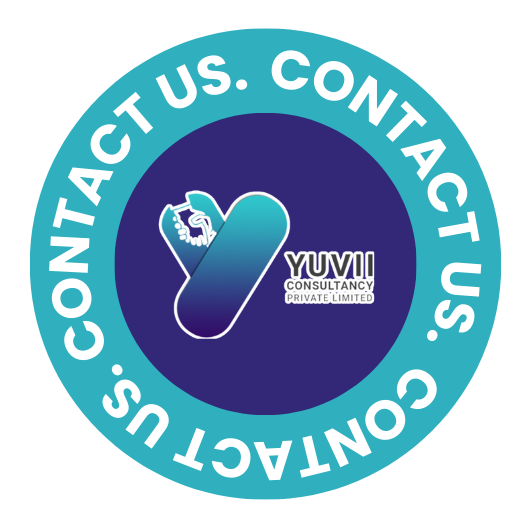
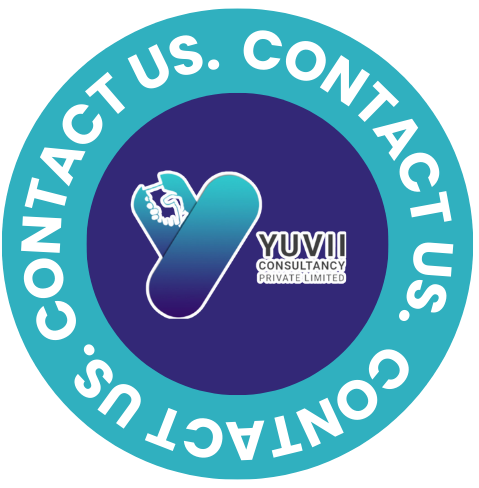
fix: contact-us.png changed

diff --git a/about.html b/about.html
@@ -1217,7 +1217,7 @@
               </div>
               <div class="commitment-contact-circle">
                 <a href="contact.html">
-                  <img src="contact-us.png" alt="" />
+                  <img src="yuvii consultancy (5).png" alt="" />
                 </a>
               </div>
             </div>
@@ -1327,10 +1327,7 @@
 
               <!-- Testimonials Button Start -->
               <div class="testimonials-btn wow fadeInUp" data-wow-delay="0.2s">
-                <a
-                  target="_blank"
-                  href="https://www.google.com/maps/place/Yuvii+Consultancy+Private+Limited/@23.025997,72.5055161,17z/data=!4m8!3m7!1s0x395e851765612aa1:0x411ab86e4c0554b1!8m2!3d23.0259921!4d72.5080964!9m1!1b1!16s%2Fg%2F11rq8zfmw0?entry=ttu&g_ep=EgoyMDI1MTExMC4wIKXMDSoASAFQAw%3D%3D"
-                  class="btn-default btn-highlighted"
+                <a target="_blank" href="https://www.google.com/maps/place/Yuvii+Consultancy+Private+Limited/@23.025997,72.5055161,17z/data=!4m8!3m7!1s0x395e851765612aa1:0x411ab86e4c0554b1!8m2!3d23.0259921!4d72.5080964!9m1!1b1!16s%2Fg%2F11rq8zfmw0?entry=ttu&g_ep=EgoyMDI1MTExMC4wIKXMDSoASAFQAw%3D%3D" class="btn-default btn-highlighted"
                   >View All Review</a
                 >
               </div>
@@ -1348,20 +1345,15 @@
                   <div class="swiper-slide">
                     <div class="testimonial-item">
                       <div class="testimonial-rating">
-                        <i class="fa-solid fa-star" style="color: gold"></i>
-                        <i class="fa-solid fa-star" style="color: gold"></i>
-                        <i class="fa-solid fa-star" style="color: gold"></i>
-                        <i class="fa-solid fa-star" style="color: gold"></i>
+                        <i class="fa-solid fa-star" style="color: gold;"></i>
+                        <i class="fa-solid fa-star" style="color: gold;"></i>
+                        <i class="fa-solid fa-star" style="color: gold;"></i>
+                        <i class="fa-solid fa-star" style="color: gold;"></i>
                         <i class="fa-solid fa-star"></i>
                       </div>
                       <div class="testimonial-content">
                         <p>
-                          "I had a fantastic experience with Yuvii Consultancy,
-                          and I’d especially like to highlight the exceptional
-                          support I received from Abhay throughout the process.
-                          From the very beginning, Yuvii stood out for their
-                          clear communication, professionalism, and genuine
-                          commitment to helping clients succeed."
+                          "I had a fantastic experience with Yuvii Consultancy, and I’d especially like to highlight the exceptional support I received from Abhay throughout the process. From the very beginning, Yuvii stood out for their clear communication, professionalism, and genuine commitment to helping clients succeed."
                         </p>
                       </div>
                       <div class="testimonial-author">
@@ -1389,20 +1381,15 @@
                   <div class="swiper-slide">
                     <div class="testimonial-item">
                       <div class="testimonial-rating">
-                        <i class="fa-solid fa-star" style="color: gold"></i>
-                        <i class="fa-solid fa-star" style="color: gold"></i>
-                        <i class="fa-solid fa-star" style="color: gold"></i>
-                        <i class="fa-solid fa-star" style="color: gold"></i>
-                        <i class="fa-solid fa-star"></i>
+                        <i class="fa-solid fa-star" style="color: gold;"></i>
+                        <i class="fa-solid fa-star" style="color: gold;"></i>
+                        <i class="fa-solid fa-star" style="color: gold;"></i>
+                        <i class="fa-solid fa-star" style="color: gold;"></i>
+                        <i class="fa-solid fa-star" style="color: gold;"></i>
                       </div>
                       <div class="testimonial-content">
                         <p>
-                          "One thing I would say about Yuvii Consultancy is they
-                          are very patient and skilled, I was having so many
-                          issues and so many questions as I was unsure this
-                          would work but they listened to my problems, took out
-                          solution and answered me as many times I was confused,
-                          they are the new way to Hiring"
+                          "Dependable development partner we can trust for long-term projects. Their understanding of both business and technology made the entire process smooth. The code quality and documentation were excellent, making future updates easy."
                         </p>
                       </div>
                       <div class="testimonial-author">
@@ -1418,8 +1405,8 @@
                           </div>
                         </div>
                         <div class="author-content">
-                          <h3>Javier Estrada Garcia</h3>
-                          <p>Software Developer</p>
+                          <h3>Sarah Johnson </h3>
+                          <!-- <p>Database Developer</p> -->
                         </div>
                       </div>
                     </div>
@@ -1430,19 +1417,15 @@
                   <div class="swiper-slide">
                     <div class="testimonial-item">
                       <div class="testimonial-rating">
-                        <i class="fa-solid fa-star" style="color: gold"></i>
-                        <i class="fa-solid fa-star" style="color: gold"></i>
-                        <i class="fa-solid fa-star" style="color: gold"></i>
-                        <i class="fa-solid fa-star" style="color: gold"></i>
+                        <i class="fa-solid fa-star" style="color: gold;"></i>
+                        <i class="fa-solid fa-star" style="color: gold;"></i>
+                        <i class="fa-solid fa-star" style="color: gold;"></i>
+                        <i class="fa-solid fa-star" style="color: gold;"></i>
                         <i class="fa-solid fa-star"></i>
                       </div>
                       <div class="testimonial-content">
                         <p>
-                          "I applied at many places and tried so many online
-                          platforms for was not able to find a good position in
-                          my field, but Yuvii Consultancy made it possible, I
-                          definitely suggest them even if you are a fresher or
-                          experienced person, they are the best"
+                          "A trustworthy team that respects both clients and compliance. Collections became more organized and predictable after onboarding. Reliable recovery support with a respectful approach."
                         </p>
                       </div>
                       <div class="testimonial-author">
@@ -1458,8 +1441,8 @@
                           </div>
                         </div>
                         <div class="author-content">
-                          <h3>Parth Patel</h3>
-                          <p>Business Analyst</p>
+                          <h3>Paul Hernandez</h3>
+                          <!-- <p>Business Analyst</p> -->
                         </div>
                       </div>
                     </div>
@@ -1470,18 +1453,15 @@
                   <div class="swiper-slide">
                     <div class="testimonial-item">
                       <div class="testimonial-rating">
-                        <i class="fa-solid fa-star" style="color: gold"></i>
-                        <i class="fa-solid fa-star" style="color: gold"></i>
-                        <i class="fa-solid fa-star" style="color: gold"></i>
-                        <i class="fa-solid fa-star" style="color: gold"></i>
-                        <i class="fa-solid fa-star" style="color: gold"></i>
+                        <i class="fa-solid fa-star" style="color: gold;"></i>
+                        <i class="fa-solid fa-star" style="color: gold;"></i>
+                        <i class="fa-solid fa-star" style="color: gold;"></i>
+                        <i class="fa-solid fa-star" style="color: gold;"></i>
+                        <i class="fa-solid fa-star"></i>
                       </div>
                       <div class="testimonial-content">
                         <p>
-                          "Yuvii Consultancy has been a big help for my career,
-                          I was able to find the perfect suitable job for myself
-                          as the person there named Peter was there to guide me
-                          in every way"
+                          "They understand business finances, not just accounting. Clear communication and consistent delivery every month. Our financial visibility improved significantly after working with them. A reliable accounting partner for growing businesses."
                         </p>
                       </div>
                       <div class="testimonial-author">
@@ -1497,13 +1477,47 @@
                           </div>
                         </div>
                         <div class="author-content">
-                          <h3>Harsh Patel</h3>
-                          <p>Database Developer</p>
+                          <h3>Andrew Martinez</h3>
+                          <!-- <p>Business Analyst</p> -->
                         </div>
                       </div>
                     </div>
                   </div>
                   <!-- Testimonial Slide End -->
+
+
+                  <div class="swiper-slide">
+                  <div class="testimonial-item">
+                    <div class="testimonial-rating">
+                      <i class="fa-solid fa-star" style="color: gold;"></i>
+                      <i class="fa-solid fa-star" style="color: gold;"></i>
+                      <i class="fa-solid fa-star" style="color: gold;"></i>
+                      <i class="fa-solid fa-star" style="color: gold;"></i>
+                      <i class="fa-solid fa-star" style="color: gold;"></i>
+                    </div>
+                    <div class="testimonial-content">
+                      <p>
+                        "The Yuvii team understands dental billing better than anyone we've worked with. Our PPO claims
+                        used to take forever, now we see payments hitting the account within days. Zero stress and
+                        complete transparency."
+                      </p>
+                    </div>
+                    <div class="testimonial-author">
+                      <div class="author-image">
+                        <figure class="image-anime">
+                          <img src="images/default.webp" alt="" />
+                        </figure>
+                        <div class="testimonial-quote">
+                          <img src="images/testimonials-quotes-img.svg" alt="" />
+                        </div>
+                      </div>
+                      <div class="author-content">
+                        <h3>BrightSmile Dental Care</h3>
+                        <p>Florida</p>
+                      </div>
+                    </div>
+                  </div>
+                </div>
                 </div>
                 <div class="testimonial-pagination"></div>
               </div>
@@ -1516,31 +1530,29 @@
             <div class="testimonials-counter-list">
               <!-- Testimonials Counter Item Start -->
               <div class="testimonials-counter-item">
-                <h2><span class="counter">3500</span>+</h2>
-                <p>Successfully Placed</p>
-              </div>
-              <!-- Testimonials Counter Item End -->
-
-              <!-- Testimonials Counter Item Start -->
-              <div class="testimonials-counter-item">
-                <h2><span class="counter">98</span>%</h2>
-                <p>
-                  5-Star Reviews
-                </p>
-              </div>
-              <!-- Testimonials Counter Item End -->
-
-              <!-- Testimonials Counter Item Start -->
-              <div class="testimonials-counter-item">
-                <h2><span class="counter">97</span>%</h2>
-                <p>Client Success Rate</p>
+                <h2><span class="counter">4.9</span></h2>
+                <p>Client Reviews</p>
               </div>
               <!-- Testimonials Counter Item End -->
 
               <!-- Testimonials Counter Item Start -->
               <div class="testimonials-counter-item">
                 <h2><span class="counter">100</span>%</h2>
-                <p>Targets Achieved</p>
+                <p>secure client data handling</p>
+              </div>
+              <!-- Testimonials Counter Item End -->
+
+              <!-- Testimonials Counter Item Start -->
+              <div class="testimonials-counter-item">
+                <h2><span class="counter">4</span>+</h2>
+                <p>years of experience</p>
+              </div>
+              <!-- Testimonials Counter Item End -->
+
+              <!-- Testimonials Counter Item Start -->
+              <div class="testimonials-counter-item">
+                <h2><span class="counter">98</span>%</h2>
+                <p>client retention rate</p>
               </div>
               <!-- Testimonials Counter Item End -->
             </div>

diff --git a/index.html b/index.html
@@ -1255,7 +1255,7 @@
               <!-- Faqs Contact Circle Start -->
               <div class="faq-contact-circle">
                 <a href="contact.html">
-                  <img src="contact-us.png" alt="" />
+                  <img src="yuvii consultancy (5).png" alt="" />
                 </a>
               </div>
               <!-- Faqs Contact Circle End -->
